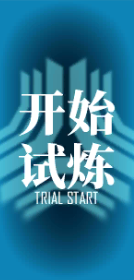
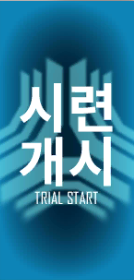
chore: update resources for YostarKR (#8450)
Former-commit-id: 5308312451105b6bba36e2aaa1a4968a6e6564a4 [formerly 9aa361cb6ef4b5b2165ef1cb129ef60d2981be56]
Former-commit-id: 64b9a01a0931befac14dbeaf7e40f29ae731aa50

Changed region(s): [[0.1194, 0.2857, 0.8657, 0.6857], [0.0, 0.0, 1.0, 0.0286]]

diff --git a/docs/glossary/operators.md b/docs/glossary/operators.md
@@ -97,6 +97,8 @@ char_4041_chnut|褐果|Chestnut|チェストナット|체스트넛
 char_4062_totter|铅踝|Totter|トター|토터
 char_4063_quartz|石英|Quartz|クォーツ|쿼츠
 char_4067_lolxh|罗小黑|Luo Xiaohei|羅小黒|나소흑
+char_4100_caper|跃跃|Caper||
+char_4107_vrdant|维荻|Verdant||
 
 ID|中文|English|日本語|한국어
 ---|---|---|---|---
@@ -126,6 +128,7 @@ char_166_skfire|天火|Skyfire|スカイフレア|스카이파이어
 char_171_bldsk|华法琳|Warfarin|ワルファリン|와파린
 char_173_slchan|崖心|Cliffheart|クリフハート|클리프하트
 char_174_slbell|初雪|Pramanix|プラマニクス|프라마닉스
+char_194_leto|烈夏|Лето||
 char_195_glassb|真理|Istina|イースチナ|이스티나
 char_201_moeshd|可颂|Croissant|クロワッサン|크루아상
 char_204_platnm|白金|Platinum|プラチナ|플래티넘
@@ -200,9 +203,11 @@ char_488_buildr|青枳|Poncirus|ポンシラス|폰사이러스
 char_489_serum|蚀清|Corroserum|コロセラム|코로세럼
 char_492_quercu|夏栎|Quercus|クエルクス|퀘르쿠스
 char_493_firwhl|火哨|Firewhistle|ファイヤーホイッスル|파이어휘슬
+char_494_vendla|刺玫|Vendela||
 char_496_wildmn|野鬃|Wild Mane|ワイルドメイン|와일드메인
 char_497_ctable|晓歌|Cantabile|カンタービレ|칸타빌레
 char_498_inside|隐现|Insider|インサイダー|인사이더
+char_499_kaitou|折光|Diamante||
 char_508_aguard|Sharp|Sharp|Sharp|Sharp
 char_509_acast|Pith|Pith|Pith|Pith
 char_510_amedic|Touch|Touch|Touch|Touch
@@ -220,6 +225,7 @@ char_4015_spuria|空构|Spuria|スプリア|스푸리아
 char_4016_kazema|风丸|Kazemaru|カゼマル|카제마루
 char_4017_puzzle|谜图|Puzzle|パズル|퍼즐
 char_4019_ncdeer|九色鹿|Nine-Colored Deer|九色鹿|나인컬러드 디어
+char_4023_rfalcn|红隼|Kestrel||
 char_4025_aprot2|暮落|Shalem|シャレム|샬렘
 char_4032_provs|但书|Proviso|プロヴァイゾ|프로바이조
 char_4036_forcer|见行者|Enforcer|エンフォーサー|인포서
@@ -231,10 +237,17 @@ char_4054_malist|至简|Minimalist|ミニマリスト|미니멀리스트
 char_4066_highmo|海沫|Highmore|ハイモア|하이모어
 char_4071_peper|明椒|Paprika|パプリカ|파프리카
 char_4078_bdhkgt|截云|Jieyun|ジエユン|지에윈
+char_4081_warmy|温米|Warmy||
 char_4083_chimes|铎铃|Wind Chimes|ウィンドチャイム|윈드차임스
 char_4102_threye|凛视|Valarqvin|ヴァラルクビン|발라크빈
-char_4106_bryota|苍苔|Bryophyta|ブライオファイタ|브라이오피타
 char_4104_coldst|冰酿|Coldshot||
+char_4105_almond|杏仁|Almond||
+char_4106_bryota|苍苔|Bryophyta|ブライオファイタ|브라이오피타
+char_4109_baslin|深律|Bassline||
+char_4110_delphn|戴菲恩|Delphine||
+char_4114_harold|哈洛德|Harold||
+char_4119_wanqin|万顷|Wanqing||
+char_4122_grabds|小满|Grain Buds||
 
 ID|中文|English|日本語|한국어
 ---|---|---|---|---
@@ -257,6 +270,7 @@ char_206_gnosis|灵知|Gnosis|ノーシス|노시스
 char_213_mostma|莫斯提马|Mostima|モスティマ|모스티마
 char_222_bpipe|风笛|Bagpipe|バグパイプ|백파이프
 char_225_haak|阿|Aak|ア|아
+char_245_cello|塑心|Virtuosa||
 char_248_mgllan|麦哲伦|Magallan|マゼラン|마젤란
 char_249_mlyss|缪尔赛思|Muelsyse|ミュルジス|뮤엘시스
 char_250_phatom|傀影|Phantom|ファントム|팬텀
@@ -297,7 +311,7 @@ char_1026_gvial2|百炼嘉维尔|Gavial the Invincible|百錬ガヴィル|가비
 char_1028_texas2|缄默德克萨斯|Texas the Omertosa|血掟テキサス|텍사스 디 오메르토사
 char_1029_yato2|麒麟R夜刀|Kirin R Yato|キリンRヤトウ|키린R 야토
 char_1031_slent2|淬羽赫默|Silence the Paradigmatic|淬羽サイレンス|사일런스 더 패러디그매틱
-char_1032_excu2|圣约送葬人|Executor the Ex Foedere|聖約イクゼキュター|이그제큐터 디 엑스 포에데레
+char_1032_excu2|圣约送葬人|Executor the Ex Foedere|聖約イグゼキュター|이그제큐터 디 엑스 포에데레
 char_1033_swire2|琳琅诗怀雅|Swire the Elegant Wit|琳琅スワイヤー|스와이어 디 엘리건트 위트
 char_1034_jesca2|涤火杰西卡|Jessica the Liberated||
 char_2012_typhon|提丰|Typhon|ティフォン|티폰
@@ -306,7 +320,9 @@ char_2014_nian|年|Nian|ニェン|니엔
 char_2015_dusk|夕|Dusk|シー|시
 char_2023_ling|令|Ling|リィン|링
 char_2024_chyue|重岳|Chongyue|チョンユエ|총웨
+char_2025_shu|黍|Shu||
 char_4009_irene|艾丽妮|Irene|アイリーニ|아이린
+char_4011_lessng|止颂|Lessing||
 char_4027_heyak|霍尔海雅|Ho'olheyak|ホルハイヤ|오올헤약
 char_4039_horn|号角|Horn|ホルン|혼
 char_4042_lumen|流明|Lumen|ルーメン|루멘
@@ -319,3 +335,9 @@ char_4072_ironmn|白铁|Stainless|ステインレス|스테인리스
 char_4080_lin|林|Lin|リン|린
 char_4082_qiubai|仇白|Qiubai|チューバイ|치우바이
 char_4087_ines|伊内丝|Ines|イネス|이네스
+char_4088_hodrer|赫德雷|Hoederer||
+char_4098_vvana|薇薇安娜|Viviana||
+char_4116_blkkgt|锏|Degenbrecher||
+char_4117_ray|莱伊|Ray||
+char_4121_zuole|左乐|Zuo Le||
+
